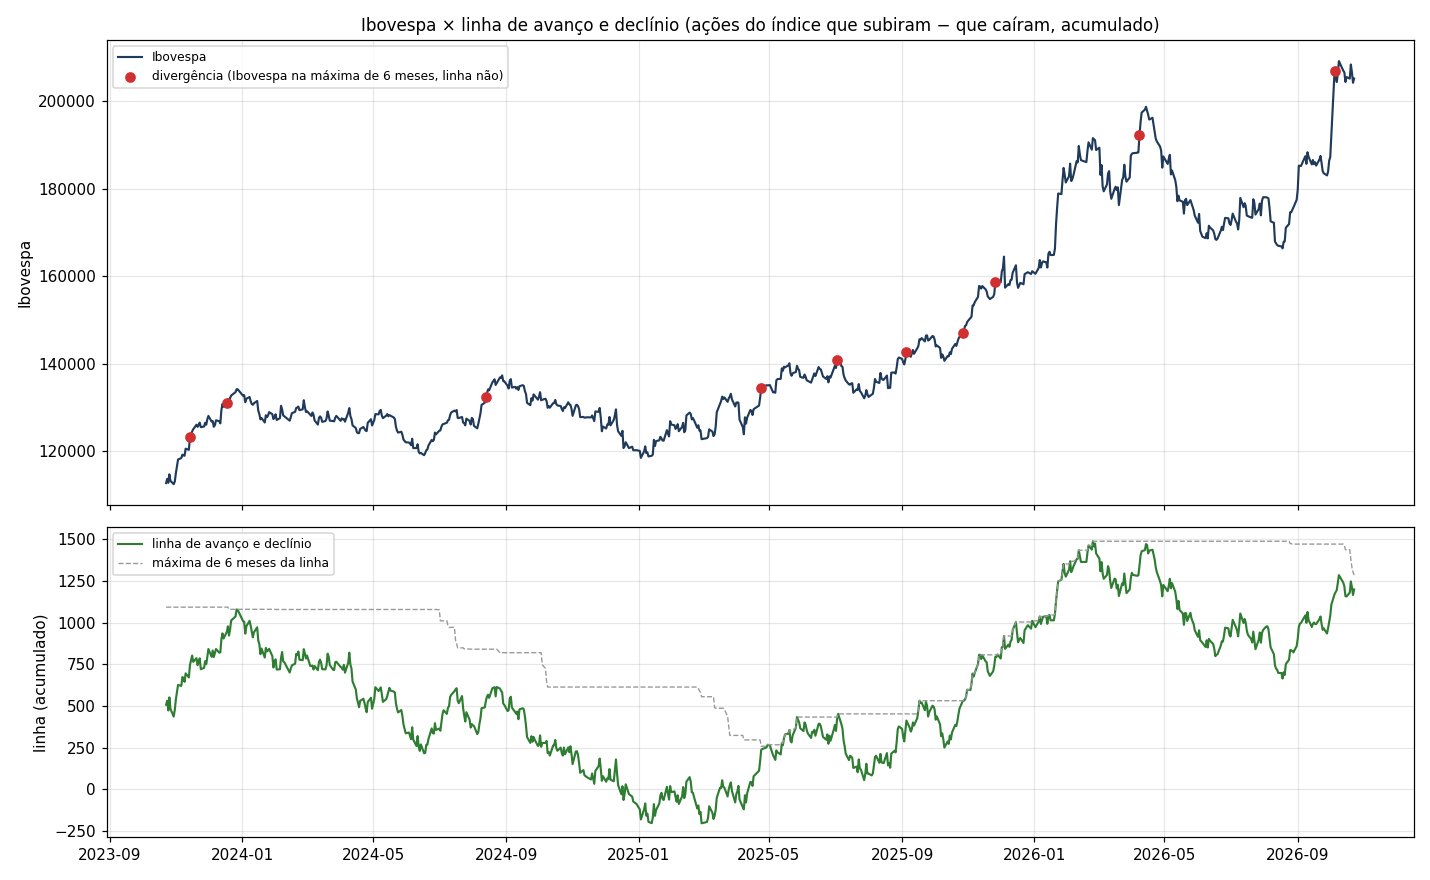
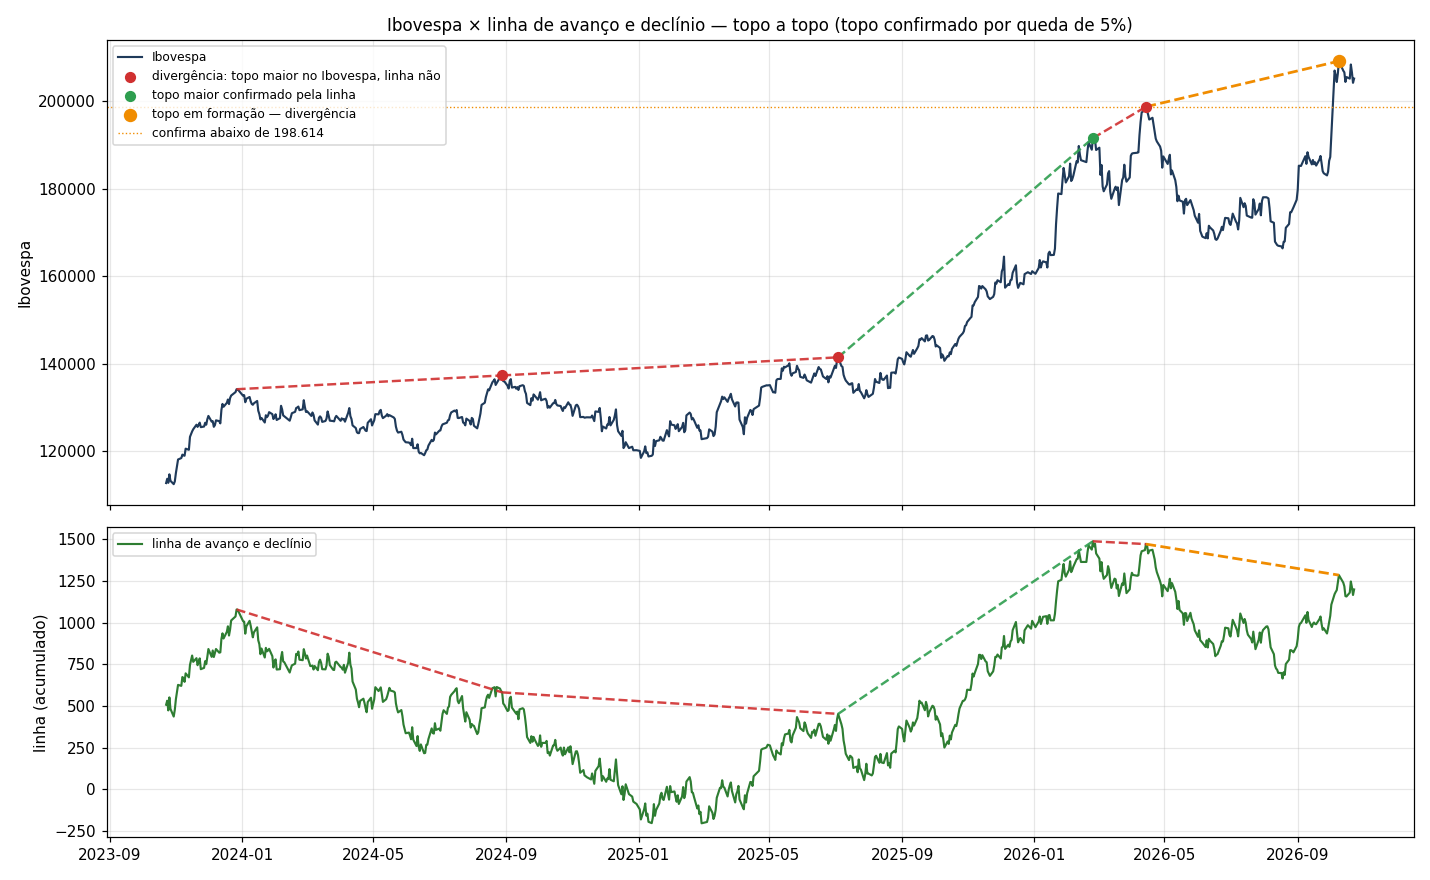
🤖 Auto: Sinal 23/10/2026 22:20

diff --git a/content/amplitude/avanco-declinio.md b/content/amplitude/avanco-declinio.md
@@ -5,14 +5,38 @@ description: "Linha de avanço e declínio do Ibovespa: ações que subiram meno
 tags: [amplitude]
 ---
 
-*Atualizado 23/10/2026 22:05 · fechamento de 23/10/2026.*
+*Atualizado 23/10/2026 22:20 · fechamento de 23/10/2026.*
 
-Em cada pregão, conta quantas ações da carteira do Ibovespa **subiram** e quantas **caíram**. O saldo do dia (subiram − caíram) é somado dia após dia: essa é a **linha de avanço e declínio**. Ela mostra se a alta do índice é de muitas ações ou só de algumas grandes. A tese clássica: **topos de mercado vêm com divergência** — o Ibovespa faz um topo maior e a linha **não** faz.
+Em cada pregão, conta quantas ações da carteira do Ibovespa **subiram** e quantas **caíram**. O saldo do dia (subiram − caíram) é somado dia após dia: essa é a **linha de avanço e declínio**. Ela mostra se a alta do índice é de muitas ações ou só de algumas grandes. **Divergência:** o Ibovespa faz um **topo maior** que o topo anterior e a linha, nesse topo, fica **abaixo** do pico que tinha no topo anterior — a alta está ficando estreita.
 
-> [!note] 23/10/2026: **54 subiram · 21 caíram** · saldo **+33** · linha 1.199
-> **3 meses**: Ibovespa fora da máxima (topo em 09/10) · **6 meses**: Ibovespa fora da máxima (topo em 09/10) · **12 meses**: Ibovespa fora da máxima (topo em 09/10)
+> [!warning] ⚠ **Divergência em formação** — o Ibovespa está num topo de **209.067** (09/10), acima do topo de 14/04 (198.657), mas a linha ficou **186 abaixo** do pico daquele topo. **Confirma se o Ibovespa fechar abaixo de 198.614** (−5% do topo; hoje 205.083).
+> 23/10/2026: 54 subiram · 21 caíram · saldo **+33**
 
 ![Linha de avanço e declínio](graficos/linha_ad_20261023.png)
+
+## Topos maiores e a linha
+
+Um topo só conta quando o Ibovespa cai 5% a partir dele (até lá, está "em formação"). Cada topo é comparado com o maior topo dos 12 meses anteriores.
+
+| Topo do Ibovespa | Topo superado | Linha × pico anterior | Confirmado em | Queda depois (do topo) |
+|---|---|---|---|---|
+| **09/10/2026 · 209.067** | 14/04/2026 · 198.657 | -186 ⚠ **divergência** | *em formação* | — |
+| 14/04/2026 · 198.657 | 24/02/2026 · 191.490 | -17 ⚠ divergência | 28/04/2026 | -16% |
+| 24/02/2026 · 191.490 | 04/07/2025 · 141.478 | +1035 ✅ confirmou | 05/03/2026 | -13% |
+| 04/07/2025 · 141.478 | 28/08/2024 · 137.344 | -161 ⚠ divergência | 18/07/2025 | -7% |
+| 28/08/2024 · 137.344 | 27/12/2023 · 134.194 | -465 ⚠ divergência | 09/10/2024 | -14% |
+| 27/12/2023 · 134.194 | 26/07/2023 · 122.560 | -1 ⚠ divergência | 18/01/2024 | -12% |
+| 26/07/2023 · 122.560 | 21/10/2022 · 119.929 | +185 ✅ confirmou | 15/08/2023 | -8% |
+| 07/06/2021 · 130.776 | 08/01/2021 · 125.077 | -117 ⚠ divergência | 30/07/2021 | -26% |
+| 08/01/2021 · 125.077 | 23/01/2020 · 119.528 | -182 ⚠ divergência | 21/01/2021 | -19% |
+| 23/01/2020 · 119.528 | 10/07/2019 · 105.817 | +514 ✅ confirmou | 10/02/2020 | -47% |
+| 10/07/2019 · 105.817 | 18/03/2019 · 99.994 | +133 ✅ confirmou | 05/08/2019 | -40% |
+| 18/03/2019 · 99.994 | 03/12/2018 · 89.820 | +223 ✅ confirmou | 22/03/2019 | -36% |
+| 03/12/2018 · 89.820 | 05/11/2018 · 89.598 | +0 ✅ confirmou | 20/12/2018 | -5% |
+| 05/11/2018 · 89.598 | 26/02/2018 · 87.653 | -462 ⚠ divergência | 13/11/2018 | -5% |
+| 26/02/2018 · 87.653 | 26/01/2018 · 85.531 | +12 ✅ confirmou | 16/04/2018 | -20% |
+
+Desde 2001: **41** topos maiores confirmados · **14** com divergência.
 
 ## Últimos pregões
 
@@ -28,10 +52,19 @@ Em cada pregão, conta quantas ações da carteira do Ibovespa **subiram** e qua
 | 14/10/2026 | 27 | 49 | **-22** | 1.218 | 206.506 |
 | 13/10/2026 | 16 | 61 | **-45** | 1.240 | 206.888 |
 | 09/10/2026 | 61 | 14 | **+47** | 1.285 | 209.067 |
-| 08/10/2026 | 59 | 16 | **+43** | 1.238 | 206.220 |
-| 07/10/2026 | 44 | 33 | **+11** | 1.195 | 204.302 |
 
-**Últimas divergências de 6 meses** (Ibovespa na máxima, linha não): 05/10/2026 · 08/04/2026 · 26/11/2025 · 27/10/2025 · 05/09/2025 · 03/07/2025 · 24/04/2025 · 13/08/2024
+## O que o teste mostrou (23/10/2026)
+
+Carteiras reconstruídas por liquidez, 2001–2026, treino 2001–2013 × teste 2014–hoje. Resultado medido a partir da **confirmação** do topo (quando ele fica conhecido) — é o que daria para operar.
+
+| Leitura | O que aconteceu depois | Confiança |
+|---|---|---|
+| ⚠ **Topo a topo** (topo maior no Ibovespa, linha abaixo do pico do topo anterior) | 60 pregões depois **−1,1%** e **−2,3%** × **+7,4%** e **+1,4%** quando a linha confirmou; queda de 10%+ em 60 pregões em **50%** e **38%** × 27% e 17% | 🟡 **indício**: as 10 medidas na mesma direção nos dois períodos, mas só 14 casos (acaso 8% no treino, 14–34% no teste) |
+| Dia de máxima (Ibovespa na máxima de 3, 6 ou 12 meses e a linha não, no mesmo dia) | igual aos outros dias de máxima | ❌ — pega muito atraso de poucos dias no meio da alta |
+| Grandes topos (queda de 20%+) | a linha virou antes em metade (2008: em out/2007; 2021: em jul/2020) | — |
+| Divergência de alta nos fundos | não ajudou | ❌ |
+
+**Aviso no Telegram** quando uma divergência é **confirmada** (o Ibovespa fecha 5% abaixo do topo), marcado como indício. Topos são raros — o sinal também é (14 vezes em 25 anos).
 
 ## Os grandes topos (Ibovespa caiu 20% ou mais depois)
 
@@ -46,24 +79,9 @@ Em cada pregão, conta quantas ações da carteira do Ibovespa **subiram** e qua
 | 09/05/2006 · 41.979 | -22% | 09/05/2006 | — não (confirmou) |
 | 26/01/2004 · 24.350 | -28% | 05/01/2004 | ⚠ sim. 15 pregões antes |
 
-Em **4 de 8** grandes topos a linha já tinha virado antes do Ibovespa. Só entram topos que eram máxima de 12 meses (repiques dentro de uma queda ficam de fora).
-
-## O que o teste mostrou (23/10/2026)
-
-Carteiras reconstruídas por liquidez, 2001–2026, treino 2001–2013 × teste 2014–hoje. A pergunta honesta: **dado que o Ibovespa está na máxima, a linha não confirmar piora o que vem depois?**
-
-| Situação | O que aconteceu depois | Confiança |
-|---|---|---|
-| Divergência (Ibovespa na máxima de 3, 6 ou 12 meses, linha não) | igual aos outros dias de máxima — em 60 pregões **+4,9%** × +5,2% (treino) e **+1,3%** × −0,1% (teste) | ❌ não antecipou queda |
-| Divergência **forte** (linha ainda no 1/5 de baixo da sua faixa) | treino: **−5,4%** em 60 pregões (× +5,2%) e queda de 10%+ em **75%** das vezes (× 25%) — mas só 4 a 7 casos; no teste (14 casos) o efeito sumiu | ❌ não se repetiu |
-| Topo **confirmado** (os dois na máxima) | um pouco melhor que as outras máximas | sem força estatística |
-| Grandes topos | a linha virou antes em metade deles (2008: em out/2007; 2021: em jul/2020) | — |
-| Divergência de alta nos fundos | não ajudou | ❌ |
-
-**Por que é só contexto:** a divergência aparece em metade dos grandes topos, mas aparece **muito mais vezes sem topo nenhum** (cerca de 80 divergências de 3 meses em 25 anos, para 8 grandes topos). Por isso não há aviso no Telegram: serve para ver se a alta é de muitas ações ou de poucas.
-
 > [!info]- Como é calculado e limites
 > - Mesma base da [📊 Amplitude](amplitude/): cotações ajustadas do Yahoo; a carteira de cada época (a atual da B3 e, para o passado, reconstruída por liquidez em janeiro, maio e setembro).
+> - Pico da linha num topo = a máxima da linha de 5 pregões antes a 5 depois do topo.
 > - Só as ações da carteira do Ibovespa (a linha clássica usa todas as ações da bolsa). Ações que fecharam o capital não têm cotação e ficam de fora. Ação parada no dia (sem variação) não conta.
 > - O valor da linha não importa — o que importa é a direção e se ela acompanha os topos do índice.
 
